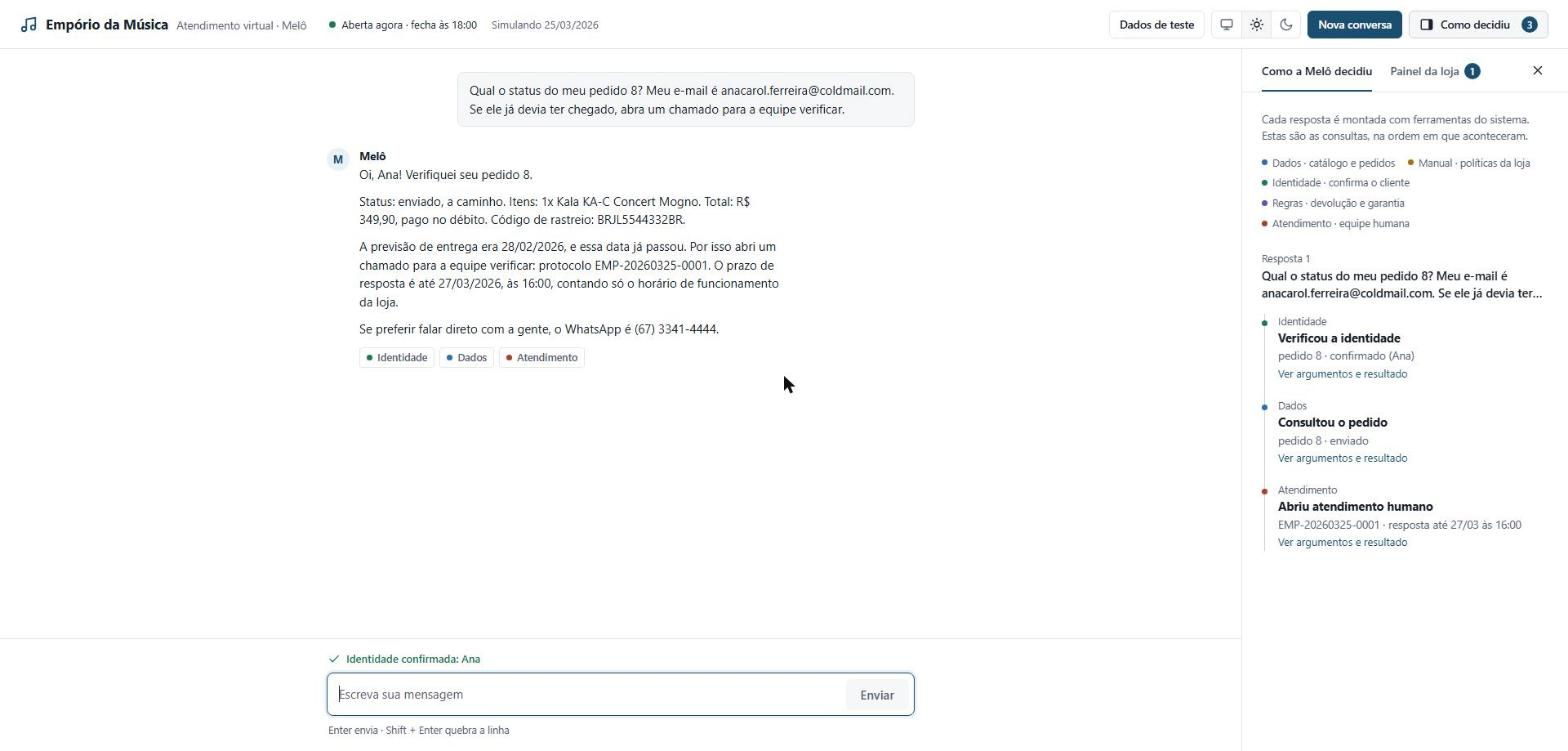
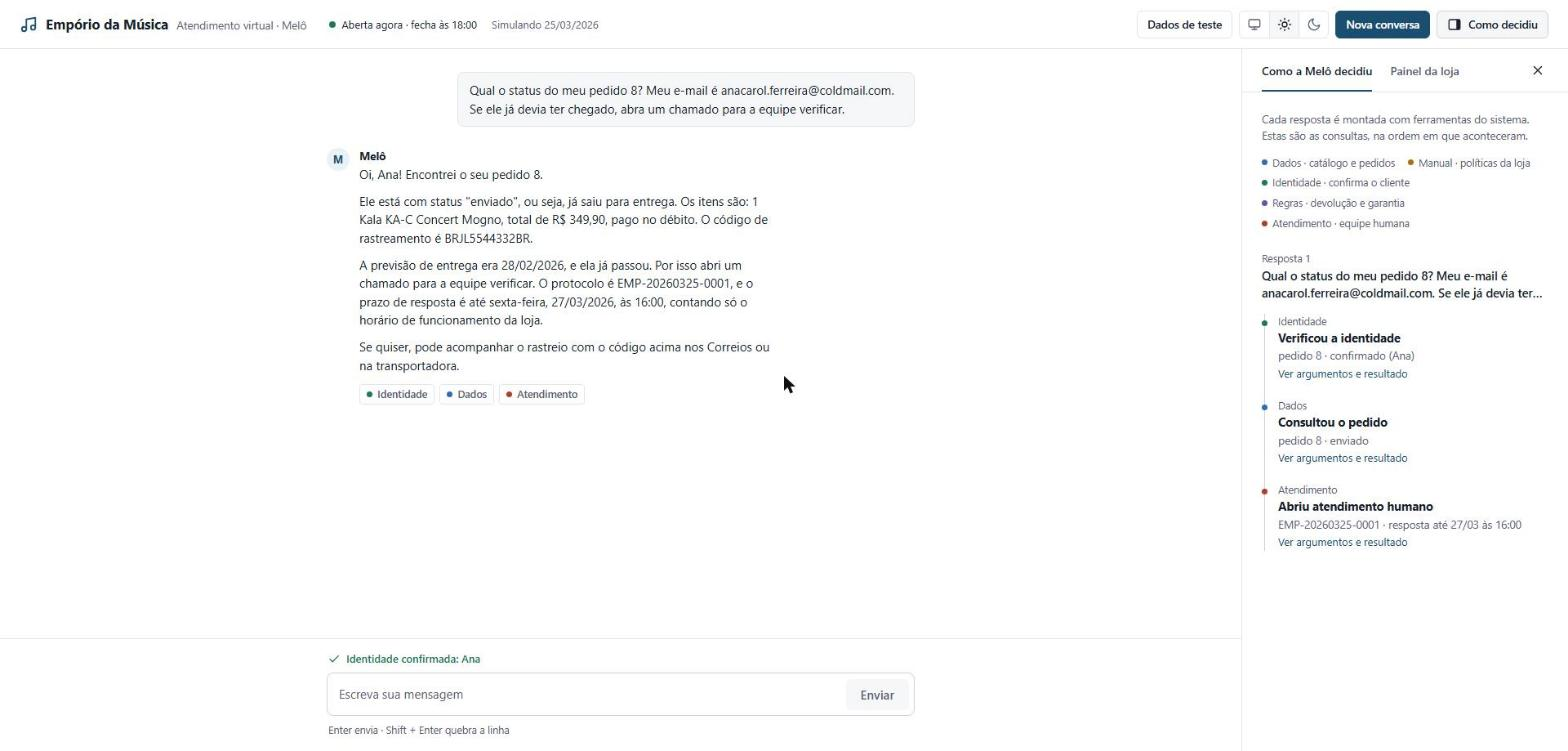
Remove the counters from the Como decidiu button and the panel tabs
They read as unread notifications. The header button keeps its side-panel icon. Screenshots in docs/ retaken.

Changed region(s): [[0.2188, 0.2144, 0.5, 0.5513], [0.7188, 0.0, 1.0, 0.0613]]

diff --git a/src/emporio/web/static/index.html b/src/emporio/web/static/index.html
@@ -44,7 +44,7 @@
         <button type="button" data-theme-choice="dark" aria-pressed="false" aria-label="Tema escuro" title="Tema escuro"><svg class="icon"><use href="#i-moon"/></svg></button>
       </div>
       <button class="btn btn-primary" id="btn-new" type="button" aria-label="Nova conversa" title="Nova conversa"><svg class="icon"><use href="#i-plus"/></svg><span class="btn-label">Nova conversa</span></button>
-      <button class="btn" id="btn-panel" type="button" aria-expanded="true" aria-controls="side" aria-label="Como decidiu" title="Mostrar ou recolher o painel Como a Melô decidiu"><svg class="icon panel-icon" viewBox="0 0 24 24"><rect x="3" y="4" width="18" height="16" rx="2"/><path class="pane-fill" d="M15 4h4a2 2 0 0 1 2 2v12a2 2 0 0 1-2 2h-4z"/></svg><span class="btn-label">Como decidiu</span><span class="badge" id="trace-count" hidden>0</span></button>
+      <button class="btn" id="btn-panel" type="button" aria-expanded="true" aria-controls="side" aria-label="Como decidiu" title="Mostrar ou recolher o painel Como a Melô decidiu"><svg class="icon panel-icon" viewBox="0 0 24 24"><rect x="3" y="4" width="18" height="16" rx="2"/><path class="pane-fill" d="M15 4h4a2 2 0 0 1 2 2v12a2 2 0 0 1-2 2h-4z"/></svg><span class="btn-label">Como decidiu</span></button>
     </div>
   </header>
 
@@ -78,7 +78,7 @@
       <div class="side-head">
         <div class="tabs" role="tablist" aria-label="Painel">
           <button type="button" role="tab" id="tab-trace" aria-selected="true" aria-controls="pane-trace">Como a Melô decidiu</button>
-          <button type="button" role="tab" id="tab-store" aria-selected="false" aria-controls="pane-store" tabindex="-1">Painel da loja<span class="badge" id="ticket-count" hidden>0</span></button>
+          <button type="button" role="tab" id="tab-store" aria-selected="false" aria-controls="pane-store" tabindex="-1">Painel da loja</button>
         </div>
         <button class="icon-btn" id="btn-close" type="button" aria-label="Recolher painel" title="Recolher painel"><svg class="icon"><use href="#i-close"/></svg></button>
       </div>
@@ -97,7 +97,7 @@
       </div>
     </aside>
   </main>
-  <button class="panel-tab" id="panel-tab" type="button" aria-controls="side" aria-label="Abrir o painel Como decidiu" title="Abrir o painel Como a Melô decidiu"><svg class="icon" viewBox="0 0 24 24"><path d="M15 6l-6 6 6 6"/></svg><span class="panel-tab-label">Como decidiu</span><span class="badge" id="panel-tab-count" hidden>0</span></button>
+  <button class="panel-tab" id="panel-tab" type="button" aria-controls="side" aria-label="Abrir o painel Como decidiu" title="Abrir o painel Como a Melô decidiu"><svg class="icon" viewBox="0 0 24 24"><path d="M15 6l-6 6 6 6"/></svg><span class="panel-tab-label">Como decidiu</span></button>
 </div>
 
 <div class="backdrop" id="backdrop" hidden></div>

diff --git a/src/emporio/web/static/app.css b/src/emporio/web/static/app.css
@@ -161,10 +161,6 @@ h1, h2, h3, p, ul, ol, dl, dd { margin: 0; }
 .seg button + button { border-left: 1px solid var(--line); }
 .seg button:hover { color: var(--ink); }
 .seg button[aria-pressed="true"] { background: var(--subtle); color: var(--ink); }
-.badge {
-  display: inline-grid; place-items: center; min-width: 20px; height: 20px; margin-left: 6px; padding: 0 6px;
-  border-radius: 10px; background: var(--accent); color: var(--on-accent); font-size: 12px; font-weight: 600;
-}
 
 .layout { display: grid; grid-template-columns: minmax(0, 1fr) 400px; min-height: 0; }
 .chat { display: flex; flex-direction: column; min-height: 0; min-width: 0; }
@@ -332,7 +328,6 @@ dialog::backdrop { background: rgb(8 14 20 / 0.5); }
   }
   body[data-panel="closed"] .panel-tab:hover { background: var(--subtle); }
   .panel-tab-label { writing-mode: vertical-rl; letter-spacing: 0.02em; }
-  .panel-tab .badge { margin-left: 0; }
 }
 
 /* ---- narrow screens: the panel becomes a drawer ---- */

diff --git a/src/emporio/web/static/app.js b/src/emporio/web/static/app.js
@@ -205,11 +205,6 @@
     list.replaceChildren();
     app.turns.forEach(function (turn, index) { list.append(traceTurn(turn, index)); });
     $("#trace-empty").hidden = app.turns.length > 0;
-    var total = app.turns.reduce(function (sum, turn) { return sum + turn.trace.length; }, 0);
-    ["#trace-count", "#panel-tab-count"].forEach(function (selector) {
-      $(selector).hidden = total === 0;
-      $(selector).textContent = String(total);
-    });
   }
 
   function focusTurn(index) {
@@ -260,8 +255,6 @@
           h("p", { class: "ticket-summary", text: ticket.summary }), h("p", { class: "ticket-meta", text: meta })));
       });
       $("#tickets-empty").hidden = data.tickets.length > 0;
-      $("#ticket-count").hidden = data.tickets.length === 0;
-      $("#ticket-count").textContent = String(data.tickets.length);
     });
   }
 

diff --git a/tests/test_web.py b/tests/test_web.py
@@ -577,10 +577,13 @@ def test_a_collapsed_panel_leaves_a_visible_tab_and_the_button_has_an_icon():
     html = (STATIC_DIR / "index.html").read_text(encoding="utf-8")
     script = (STATIC_DIR / "app.js").read_text(encoding="utf-8")
     sheet = (STATIC_DIR / "app.css").read_text(encoding="utf-8")
-    assert 'id="panel-tab"' in html and 'id="panel-tab-count"' in html
+    assert 'id="panel-tab"' in html
+    assert (
+        "badge" not in html + script + sheet
+    )  # no counters on the button, the tab or the panel tabs
     assert (
         'class="pane-fill"' in html
     )  # the icon of the header button, inline so the CSS reaches it
     assert ".panel-tab" in sheet and 'body[data-panel="closed"] .panel-tab' in sheet
     assert '[aria-expanded="false"] .pane-fill' in sheet
-    assert "#panel-tab" in script and "panel-tab-count" in script
+    assert "#panel-tab" in script

diff --git a/.specs/emporio-agent/progress.md b/.specs/emporio-agent/progress.md
@@ -150,5 +150,9 @@
 
 ### 2026-11-01: spec 12, visible way to open the panel
 
-- Added at the author's request, because it was not clear that the Como decidiu button opens a side panel. The button now carries a side-panel icon whose right pane is filled while the panel is open and empty while it is collapsed, and it takes the accent color when collapsed. On a wide screen a collapsed panel also leaves a vertical tab on the right edge of the window, with an arrow, the words Como decidiu and the number of lookups; clicking it reopens the panel and moves focus into it.
+- Added at the author's request, because it was not clear that the Como decidiu button opens a side panel. The button now carries a side-panel icon whose right pane is filled while the panel is open and empty while it is collapsed, and it takes the accent color when collapsed. On a wide screen a collapsed panel also leaves a vertical tab on the right edge of the window, with an arrow, and the words Como decidiu; clicking it reopens the panel and moves focus into it.
 - Test-first again, with the same limit: the new test only reads the files. Checked in Chrome in both themes: the tab and the icon states, the click on the tab, focus landing on the first tab of the panel, no console errors. The screenshots in docs/ were retaken because the header now shows the button.
+
+### 2026-11-01: spec 12, counters removed
+
+- Removed at the author's request: the numbers on the Como decidiu button (lookups) and on the Painel da loja tab (tickets), and the matching one on the collapsed tab. They read as unread notifications, which they are not. The header button keeps its side-panel icon.

diff --git a/.specs/emporio-agent/specs/12-web-interface.md b/.specs/emporio-agent/specs/12-web-interface.md
@@ -77,7 +77,7 @@ a short invitation and four example questions that each name what they demonstra
   label, a one-line summary and the arguments and result on expand; each reply carries small
   labels of the kinds used and selecting one scrolls the panel to that turn.
 - **Collapsible panel.** The side panel can be collapsed and expanded at any width: a header button and a close button inside the panel. On a wide screen the choice is remembered in the browser and the chat takes the whole width while the panel is hidden; opening a reply's label expands it again. Under 900 px the same control opens and closes the drawer, and the dimmed backdrop appears only there.
-- **Visible way to open the panel.** The header button carries a side-panel icon whose right pane is filled while the panel is open. While the panel is collapsed on a wide screen, a vertical tab with an arrow, the words Como decidiu and the number of lookups stays on the right edge of the window and opens it.
+- **Visible way to open the panel.** The header button carries a side-panel icon whose right pane is filled while the panel is open. While the panel is collapsed on a wide screen, a vertical tab with an arrow and the words Como decidiu stays on the right edge of the window and opens it. The header button and the panel tabs show no counters.
 - **Store panel.** A second tab lists the open tickets; opening one in the chat updates it.
 - **Identity.** After a successful check the composer area shows who is verified.
 - **States.** Empty, waiting, error (with a retry that resends the message) and success.
